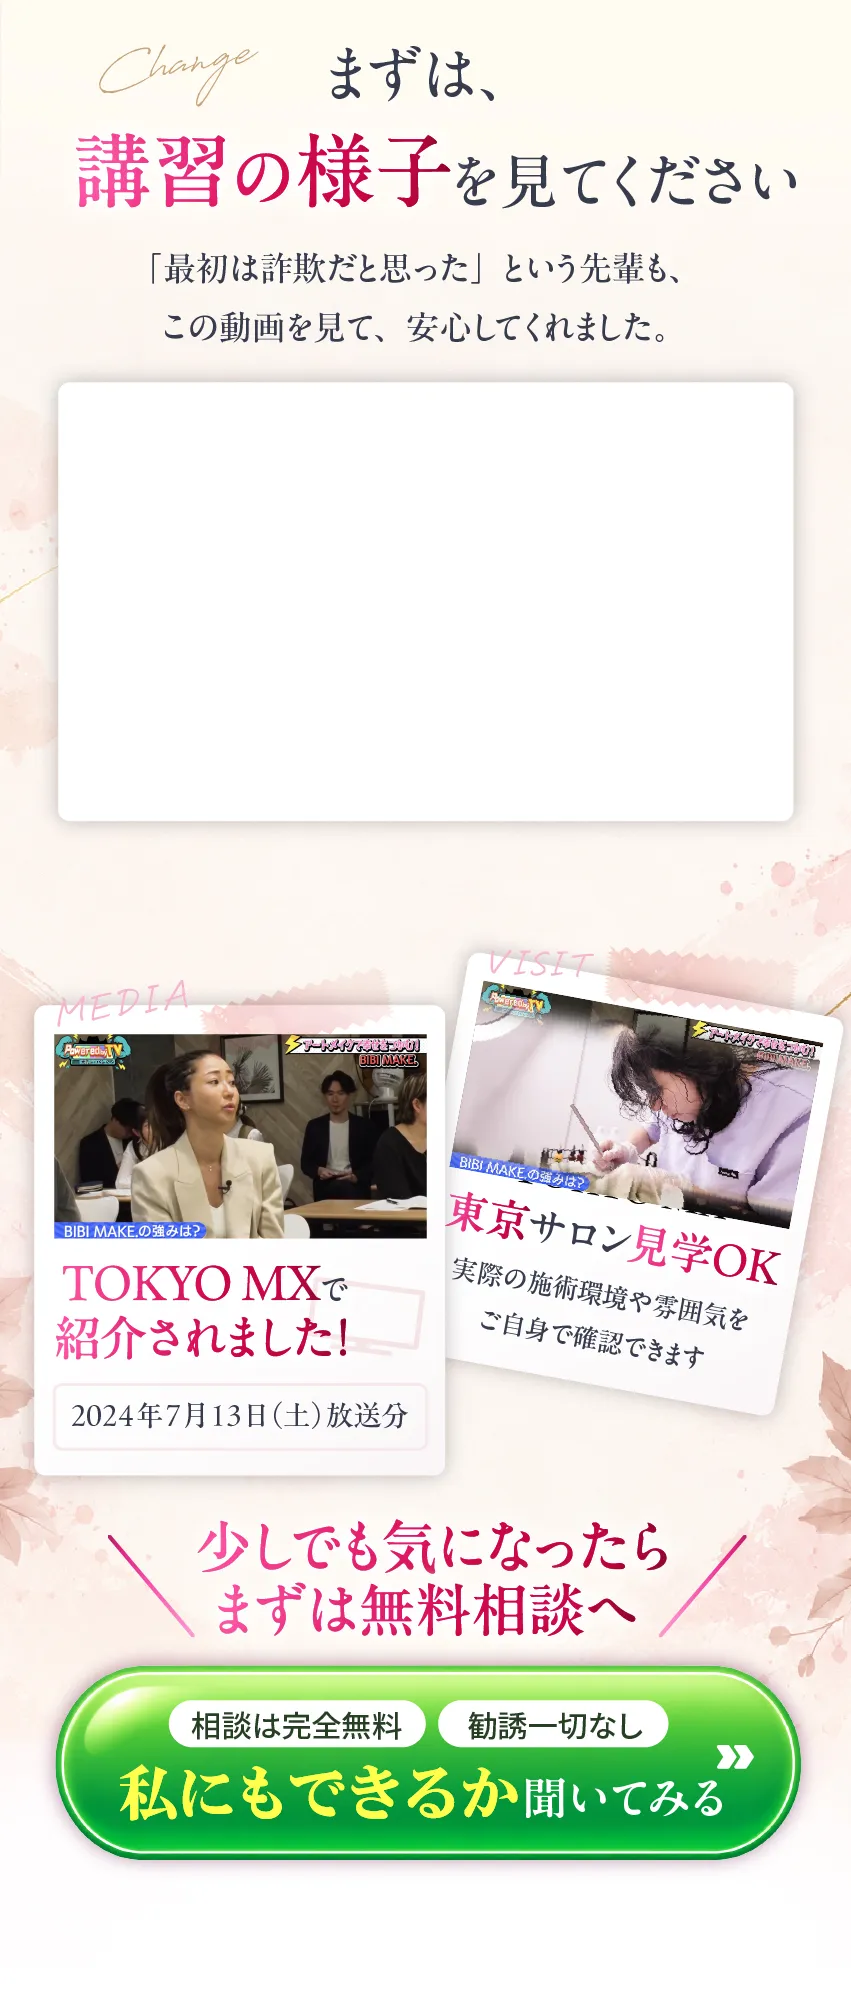
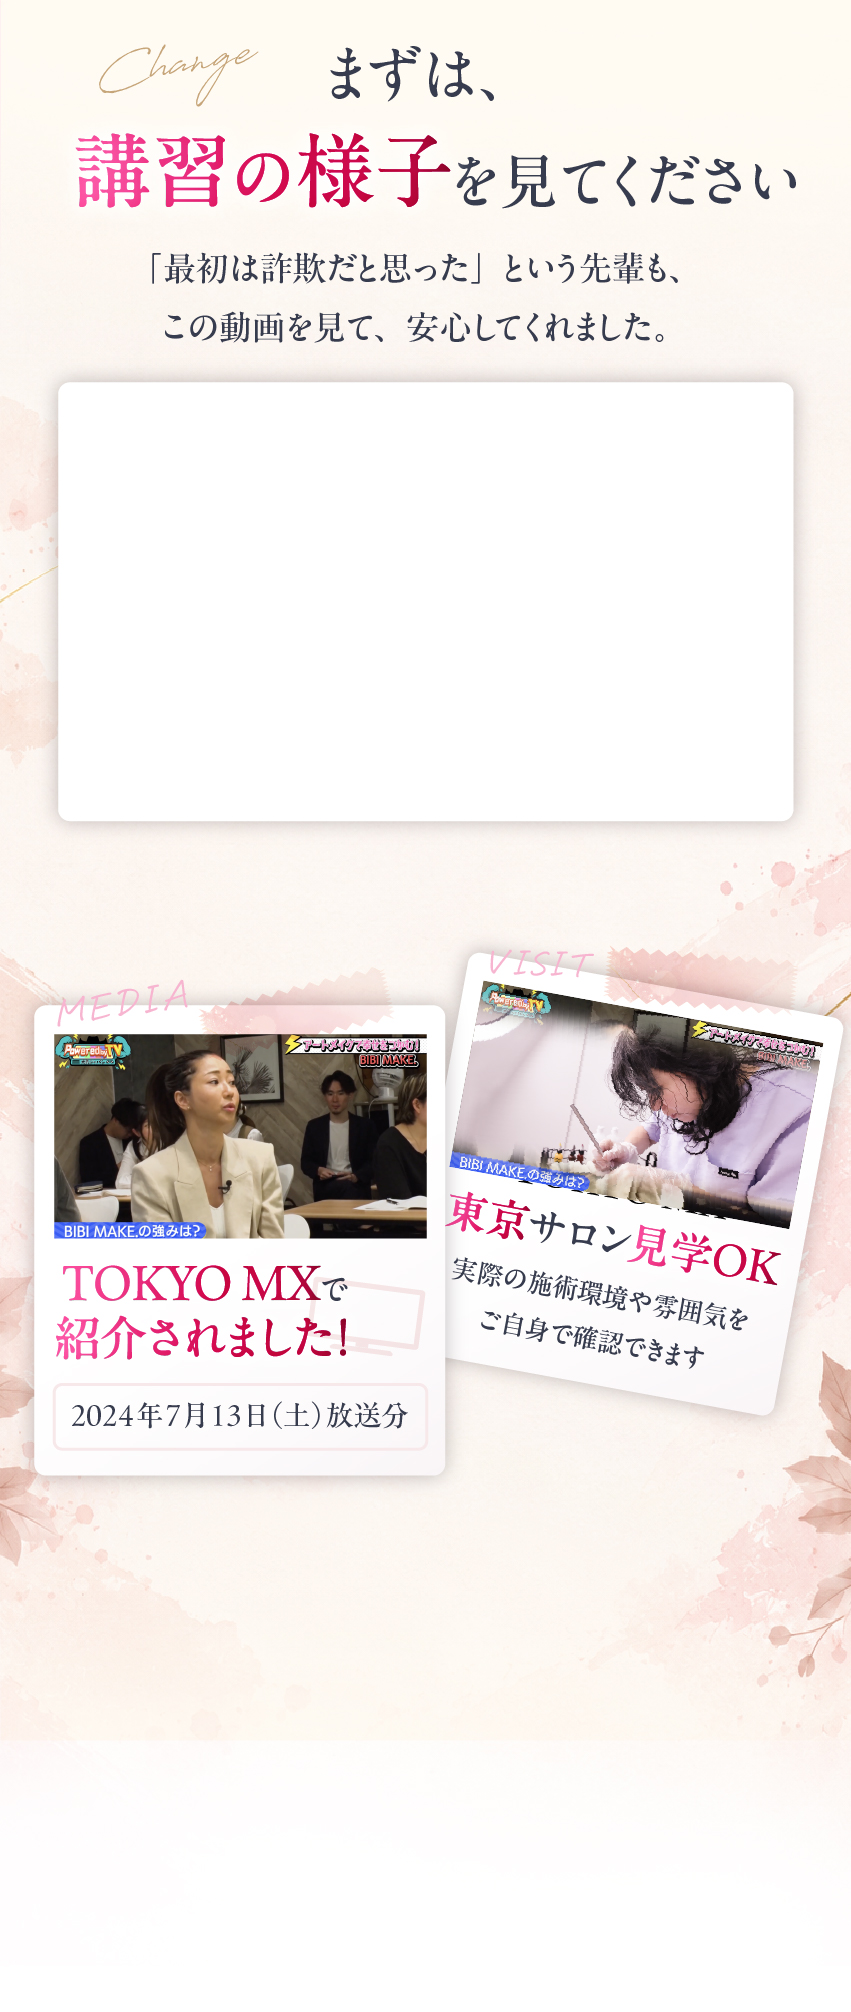
Update lesson section image

diff --git a/index.html b/index.html
@@ -116,7 +116,7 @@
     </section>
 
     <section class="section lesson" aria-label="講習の様子と無料相談">
-      <img class="base" src="img/section-07_02.webp?v=a5754c5218" width="851" height="2012" loading="lazy"
+      <img class="base" src="img/section-07_02.webp?v=804bdffacd" width="851" height="2012" loading="lazy"
         alt="まずは、講習の様子を見てください。『最初は詐欺だと思った』という先輩も、この動画を見て、安心してくれました。TOKYO MXで紹介されました！ 2024年7月13日土曜日放送分。東京サロン見学OK。実際の施術環境や雰囲気をご自身で確認できます。">
       <div class="lesson-video">
         <video controls autoplay muted loop playsinline preload="metadata" aria-label="BIBI MAKE. 実際の講習風景">
